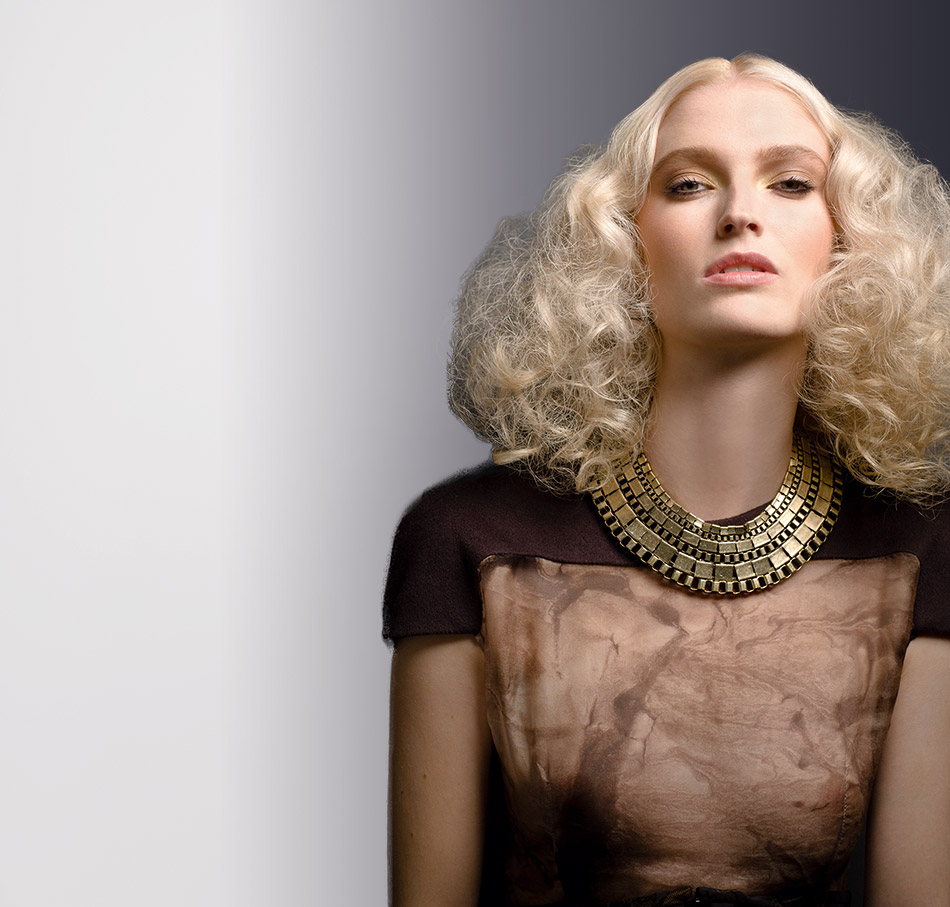
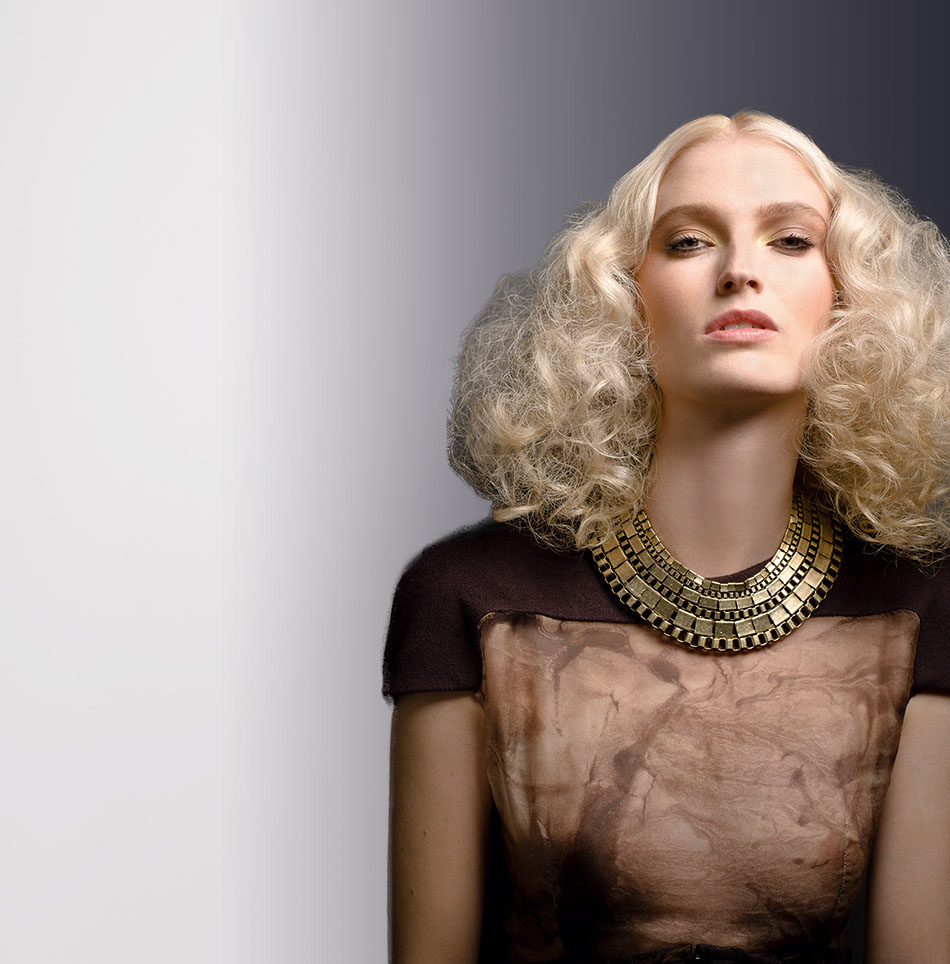
few adjustments

Changed region(s): [[0.3968, 0.0617, 1.0, 0.9261], [0.6411, 0.8644, 0.6716, 0.9261], [0.7021, 0.9261, 0.7326, 0.957]]

diff --git a/css/jakstyles.css b/css/jakstyles.css
@@ -1050,16 +1050,16 @@ div.row textarea {
 
 #offer1 {
 	margin-top: 50px;
-	background: url(../images/offers/catwalk2.jpg) no-repeat #fefefe;
+	background: url(../images/offers/colour_offer.jpg) no-repeat #fefefe;
 }
 
 #offer2 {
-	background: url(../images/offers/catwalk.jpg) no-repeat #fefefe;
+	background: url(../images/offers/bc.jpg) no-repeat #fefefe;
 }
 
 #offer3 {
 	margin-bottom: 30px;
-	background: url(../images/offers/bc.jpg) no-repeat #fefefe;
+	background: url(../images/offers/Amandine.jpg) no-repeat #fefefe;
 }
 
 #offer4 {
@@ -1150,7 +1150,7 @@ p#book_button {
 
 #catwalk_bground {
 	width: 950px;
-	height: 640px;
+	height: 680px;
 	background-color: #f5f5f5;
 	background: #f5f5f5 url('../images/catwalk/catwalk_bground.jpg') no-repeat left top;
 	padding-top: 230px;
@@ -1197,6 +1197,10 @@ p#book_button {
 
 #catwalk #cat_includes p {
 	font-size: .8em;
+}
+
+#catwalk p.catwalk_contact {
+	margin: 20px 0;
 }
 
 

diff --git a/protected/views/site/pages/catwalk.php b/protected/views/site/pages/catwalk.php
@@ -25,12 +25,12 @@ $this->pageTitle=Yii::app()->name . ' - Catwalk Package - Hairdressers in Cheshi
 	<em>Catwalk Fashion Styling</em><br>
 	<em>FREE Catwalk Shampoo, Conditioner</em><br>
 	<em>&amp; Styling Product Worth £40</em></p>
-	<p class="cat_small">New clients only, not with any other offer, ends 31/03/13</p>
+	<p class="cat_small">New clients only, not with any other offer, weekdays only. Ends 31/03/13</p>
 	</div> <!--#cat_includes-->
 	
 	<p class="link"><?php echo CHtml::link('Cut &amp Style only Package also available <br><strong>Click here for info</strong> ',array('site/page','view'=>'catwalk2')); ?></p>
 	
-	<p>Call 01925 242960 to book</p>
+	<p class="catwalk_contact">Call 01925 242960 to book</p>
 	
 
 </section> <!--#catwalk-->

diff --git a/protected/views/site/pages/catwalk2.php b/protected/views/site/pages/catwalk2.php
@@ -19,10 +19,10 @@ $this->pageTitle=Yii::app()->name . ' - Catwalk Package - Hairdressers in Cheshi
 	<p><strong>PLUS</strong></p>
 	<p>FREE Catwalk product of your choice</p>
 	
-	<p class="cat_small">New clients only, not with any other offer, ends 31/03/13</p>
+	<p class="cat_small">New clients only, not with any other offer, weekdays only. Ends 31/03/13</p>
 	
 	<p class="link"><?php echo CHtml::link('Cut &amp Colour Package also available <br><strong>Click here for info</strong> ',array('site/page','view'=>'catwalk')); ?></p>
-	<p>Call 01925 242960 to book</p>
+	<p class="catwalk_contact">Call 01925 242960 to book</p>
 
 </section> <!--#catwalk-->
 
